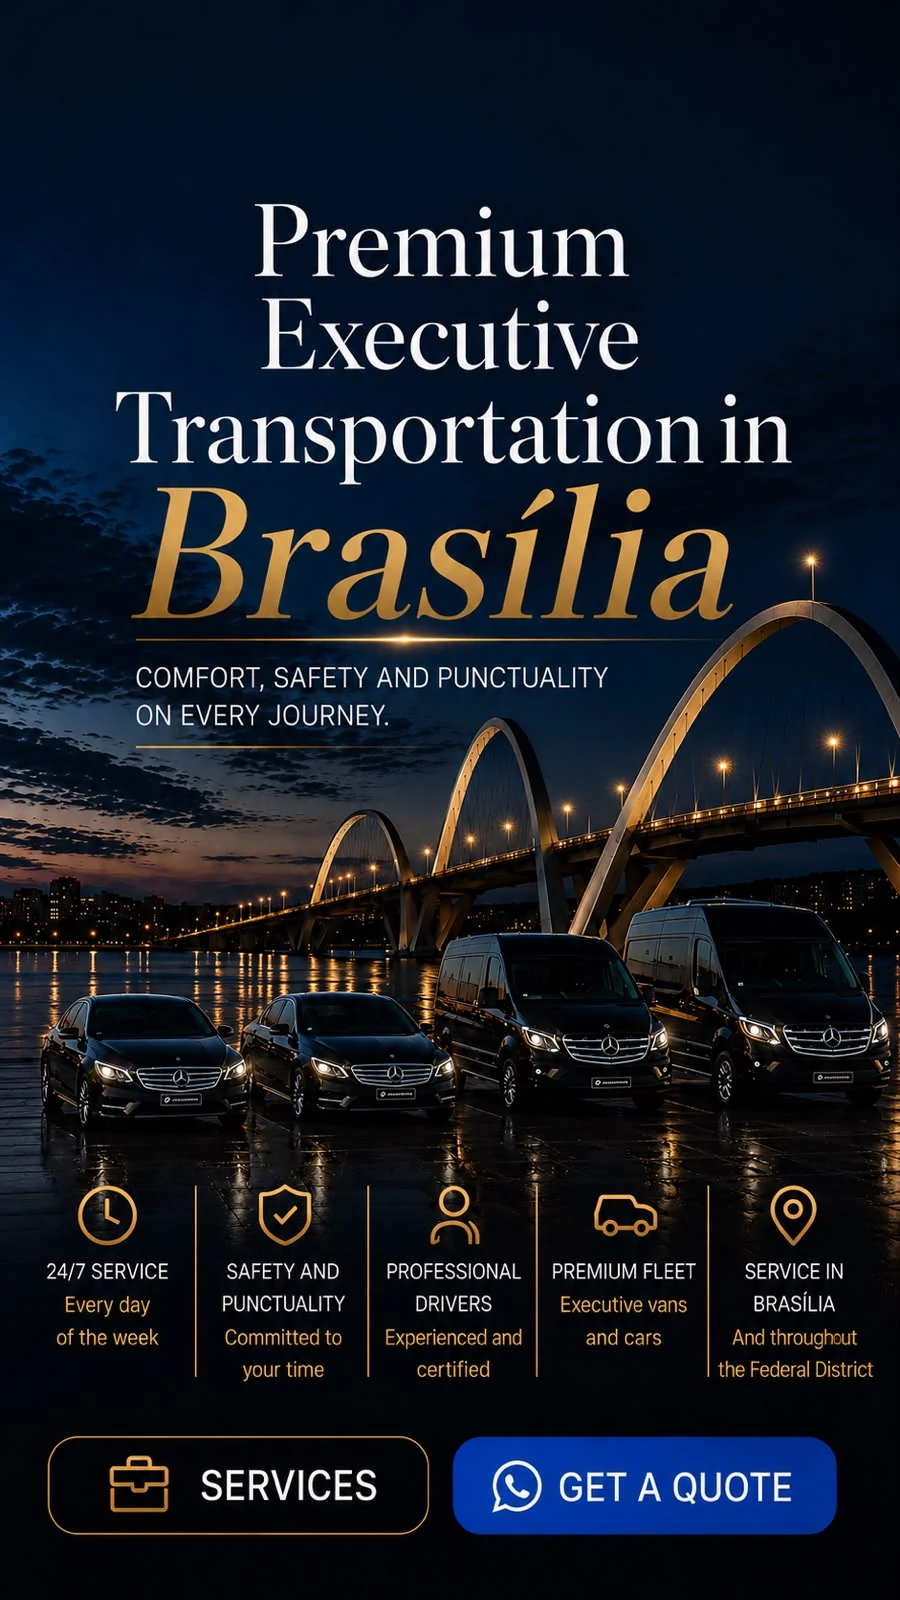
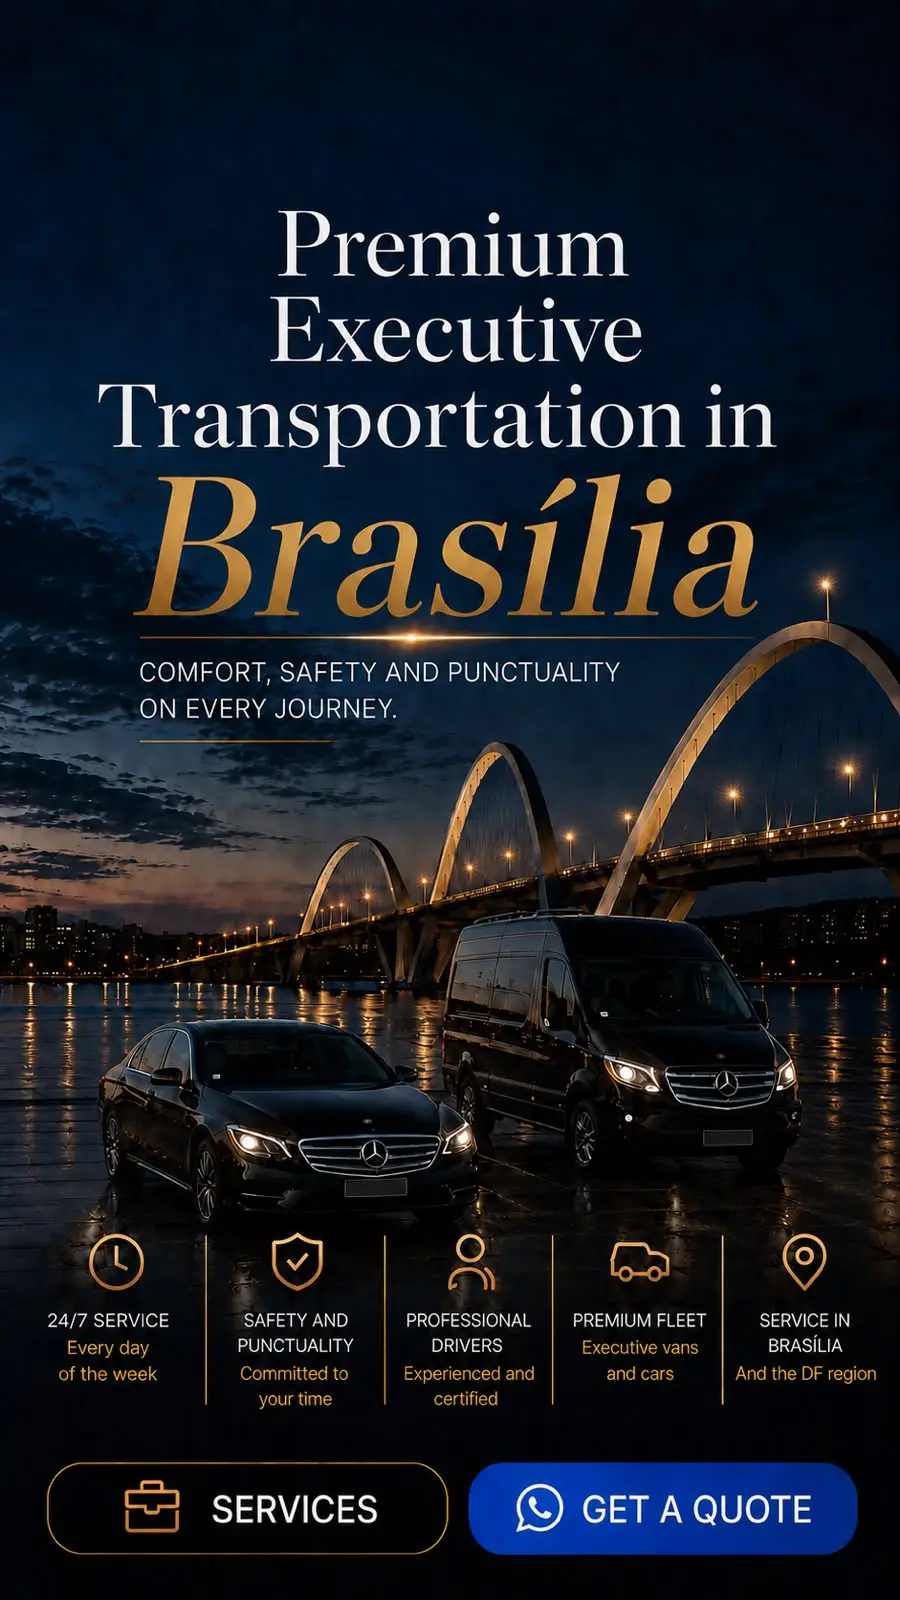
feat: nova arte da capa mobile com a foto noturna da Ponte JK
Troca as três artes do banner mobile (PT/EN/ES) pela versão noturna e
remede as áreas de toque dos botões, que mudaram de posição.

- As artes novas pesam menos: 159/167/166 KB passaram para 101/99/100 KB.
  Mesmas dimensões de antes, 900x1600.

- bannerHits remedido. Em inglês e espanhol o botão de orçamento
  deslocou 1,7 ponto percentual para a direita; sem o ajuste parte do
  toque cairia fora do botão desenhado. Em português a diferença era
  pequena, mas atualizei também para os três ficarem coerentes.

  O método foi validado antes: medi as artes ANTIGAS pelo mesmo
  detector e ele reproduziu os valores que já estavam no código —
  exatos em EN e ES. Só então medi as novas.

- O comentário acima de bannerHits dizia que as coordenadas diferiam
  entre idiomas porque o texto dos botões tinha comprimentos distintos.
  Nas artes novas os botões têm largura fixa, então isso deixou de ser
  verdade e o texto foi corrigido.

Nada de CSS mudou: a faixa vertical das áreas de toque (top 90%,
height 9.4%) continua cobrindo os botões, agora entre 91,3% e 97,1%.

Testado em 375x667, 390x844 e 430x932: proporção 0,563 na tela,
idêntica à do arquivo, sem deformação, sem corte e sem rolagem lateral.
Alvos de toque acima de 60px de altura. Desktop a 1920x1080 inalterado —
banner mobile oculto, hero e vídeo intactos.

Changed region(s): [[0.0, 0.125, 1.0, 1.0], [0.0, 0.2812, 0.1244, 0.3438], [0.0311, 0.9062, 0.0622, 0.9688]]

diff --git a/src/app/HomeContent.tsx b/src/app/HomeContent.tsx
@@ -115,11 +115,10 @@ export default function HomeContent({
   const contatoHref = locale === "pt" ? "/contato/" : `/${locale}/contato/`;
 
   // Banner mobile: arte única que já traz logo, título, benefícios e botões.
-  // Cada idioma agora tem sua própria arte (2026-08-09) — os textos "SERVIÇOS"/
-  // "SERVICES"/"SERVICIOS" e "ORÇAMENTO"/"GET A QUOTE"/"PRESUPUESTO" têm
-  // comprimentos diferentes, então a posição dos botões na imagem também
-  // difere um pouco entre as três; por isso bannerHits é por idioma, medido
-  // pixel a pixel em cada arquivo (ver areas de toque abaixo).
+  // Cada idioma tem sua própria arte, porque os textos são traduzidos dentro
+  // da imagem. As áreas de toque (bannerHits, abaixo) são medidas pixel a
+  // pixel em cada arquivo — sem isso os botões desenhados na arte não
+  // respondem ao clique.
   const bannerMobile = true;
 
   const bannerSrc = {
@@ -134,10 +133,16 @@ export default function HomeContent({
     es: "ST Executive — Transporte ejecutivo premium en Brasília. Comodidad, seguridad y puntualidad en cada trayecto.",
   }[locale];
 
+  // Remedido em 2026-08-20, sobre as artes novas (foto noturna da Ponte JK).
+  // Nas artes anteriores os botões acompanhavam o comprimento do texto, e por
+  // isso cada idioma tinha coordenadas próprias. Nas novas eles têm largura
+  // fixa, então os três valores ficaram praticamente iguais — mantive o mapa
+  // por idioma mesmo assim, para não perder o encaixe se uma arte for
+  // trocada isoladamente no futuro.
   const bannerHits = {
-    pt: { servicos: { left: "5.22%", width: "44.56%" }, orcamento: { left: "52.22%", width: "37.11%" } },
-    en: { servicos: { left: "5.33%", width: "42.33%" }, orcamento: { left: "50.44%", width: "42.33%" } },
-    es: { servicos: { left: "5.33%", width: "42.22%" }, orcamento: { left: "50.44%", width: "38.44%" } },
+    pt: { servicos: { left: "5.22%", width: "44.56%" }, orcamento: { left: "52.11%", width: "43.11%" } },
+    en: { servicos: { left: "5.22%", width: "44.56%" }, orcamento: { left: "52.11%", width: "43.11%" } },
+    es: { servicos: { left: "5.67%", width: "44.11%" }, orcamento: { left: "52.11%", width: "43.11%" } },
   }[locale];
 
   return (
